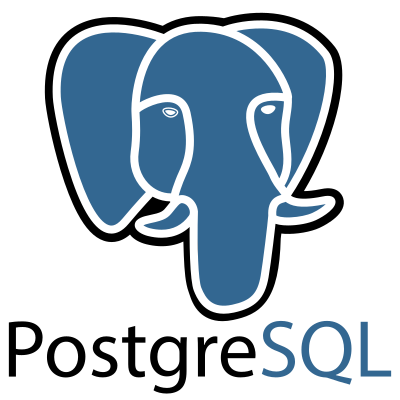
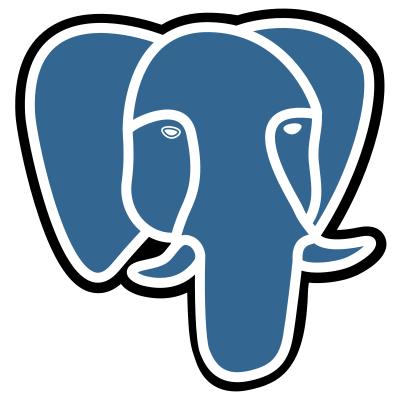
skills begin

diff --git a/index.html b/index.html
@@ -103,8 +103,78 @@
     <!-- ------------------------------------------   SKILLS SECTION   ------------------------------------------ -->
     <section id="skills" class="section">
         <div class="container">
-            <div class="box">
-                
+            <ul class="skill-list">
+                <li class="box languages">
+                    <h1 data-lang="skills:languages">Linguaggi</h1>
+                    <div class="icons">
+                        <div class="skill-item">
+                            <img class="skill-icon" src="./assets/img/skills/cplusplus.png" alt="">
+                            <h2 class="noselect">C++</h2>
+                        </div>
+                        <div class="skill-item">
+                            <img class="skill-icon" src="./assets/img/skills/csharp.png" alt="">
+                            <h2 class="noselect">C#</h2>
+                        </div>
+                        <div class="skill-item">
+                            <img class="skill-icon" src="./assets/img/skills/python.png" alt="">
+                            <h2 class="noselect">Python</h2>
+                        </div>
+                        <div class="skill-item">
+                            <img class="skill-icon" src="./assets/img/skills/java.png" alt="">
+                            <h2 class="noselect">Java</h2>
+                        </div>
+                    </div>
+                </li>
+                <li class="box tools">
+                    <h1 data-lang="skills:tools">Strumenti</h1>
+                    <div class="icons">
+                        <div class="skill-item">
+                            <img class="skill-icon" src="./assets/img/skills/matlab.png" alt="">
+                            <h2 class="noselect">Matlab</h2>
+                        </div>
+                        <div class="skill-item">
+                            <img class="skill-icon" src="./assets/img/skills/labview.png" alt="">
+                            <h2 class="noselect">LabVIEW</h2>
+                        </div>
+                        <div class="skill-item">
+                            <img class="skill-icon" src="./assets/img/skills/docker.png" alt="">
+                            <h2 class="noselect">Docker</h2>
+                        </div>
+                    </div>
+                </li>
+                <li class="box backend">
+                    <h1 data-lang="skills:backend">Back-end</h1>
+                    <div class="icons">
+                        <div class="skill-item">
+                            <img class="skill-icon" src="./assets/img/skills/dotnet.png" alt="">
+                            <h2 class="noselect">.NET Core</h2>
+                        </div>
+                        <div class="skill-item">
+                            <img class="skill-icon" src="./assets/img/skills/postgresql.png" alt="">
+                            <h2 class="noselect">PostgreSQL</h2>
+                        </div>
+                    </div>
+                </li>
+                <li class="box webdev">
+                    <h1 data-lang="skills:webdev">Sviluppo web</h1>
+                    <div class="icons">
+                        <div class="skill-item">
+                            <img class="skill-icon" src="./assets/img/skills/html5.png" alt="">
+                            <h2 class="noselect">HTML5</h2>
+                        </div>
+                        <div class="skill-item">
+                            <img class="skill-icon" src="./assets/img/skills/css3.png" alt="">
+                            <h2 class="noselect">CSS3</h2>
+                        </div>
+                        <div class="skill-item">
+                            <img class="skill-icon" src="./assets/img/skills/javascript.png" alt="">
+                            <h2 class="noselect">JavaScript</h2>
+                        </div>
+                    </div>
+                </li>
+            </ul>
+            <div class="box skill-preview">
+                <h1>Clicca su un elemento per mostrarne i dettagli</h1>
             </div>
         </div>
         <h1 class="section-title noselect" data-lang="section_titles:skills">Skills</h1>

diff --git a/css/desktop.css b/css/desktop.css
@@ -31,7 +31,7 @@
     --neon_animation_duration: 300ms;
     --fadein_animation_duration: 1000ms;
 
-    --section_title_top: 50px;
+    --section_title_top: 45px;
 
     --can_hover: 0;
 }
@@ -89,7 +89,7 @@ a {
     flex-direction: row;
     align-items: center;
     justify-content: center;
-    margin: calc(var(--section_title_top) + 11rem) 10vw 0px 10vw;
+    margin: calc(var(--section_title_top) + 11rem) 8vw 0px 8vw;
     z-index: 1;
 }
 
@@ -132,6 +132,10 @@ a {
     /* Font smoothing. That was taken from TWBS */
     -webkit-font-smoothing: antialiased;
     -moz-osx-font-smoothing: grayscale;
+}
+
+.box {
+    position: relative;
 }
 
 .box::before {
@@ -411,6 +415,75 @@ a {
     min-height: 100vh;
 }
 
+#skills .container {
+    flex-direction: row;
+    width: 100%;
+    justify-content: space-between;
+    align-items: flex-start;
+}
+
+#skills .container .box {
+    align-items: stretch;
+}
+
+#skills .container .box h1 {
+    font-size: 3rem;
+    font-weight: 400;
+    margin: 4px 0px 0px 10px;
+}
+
+#skills .container .skill-list {
+    list-style: none;
+}
+
+#skills .container .skill-list li {
+    margin: 10px 0px 10px 0px;
+    padding: 10px;
+}
+
+#skills .container ul li:nth-child(1) {
+    margin-top: 0px;
+}
+
+#skills .container ul li:nth-last-child(1) {
+    margin-bottom: 0px;
+}
+
+#skills .skill-item {
+    margin: 8px;
+    background-color: rgba(255, 255, 255, 0.75);
+    box-shadow: 2px 2px 5px var(--background_color_dark);
+    border-radius: 2%;
+    cursor: pointer;
+}
+
+#skills .skill-item h2 {
+    color: black;
+    font-weight: 600;
+    text-align: center;
+    margin: 6px;
+    font-size: 1.7rem;
+}
+
+#skills .skill-item .skill-icon {
+    width: 80px;
+    height: 80px;
+    margin: 20px;
+}
+
+#skills .container .skill-preview {
+    width: 50%;
+}
+
+#skills .container .skill-preview {
+    padding: 10px;
+}
+
+#skills .icons {
+    display: grid;
+    grid-template-columns: 1fr 1fr 1fr 1fr;
+}
+
 /* ----------------------------------------  EDUCATION   ---------------------------------------- */
 
 #education .container {
@@ -554,11 +627,11 @@ a {
         color: var(--secondary_color) !important;
     }
 
-    #education .container .box::before {
-        transition: background-color .2s;
+    #skills .skill-item {
+        transition: background-color .1s linear;
     }
 
-    #education .container .box:hover::before {
-        background-color: var(--secondary_color);
+    #skills .skill-item:hover {
+        background-color: white;
     }
 }

diff --git a/css/tablet.css b/css/tablet.css
@@ -157,6 +157,14 @@ body.stop_scroll {
 /* ----------------------------------------     HERO     ---------------------------------------- */
 
 
+
+
+/* ----------------------------------------  EDUCATION   ---------------------------------------- */
+
+
+}
+
+@media only screen and (max-width: 1024px) {
 /* ----------------------------------------    ABOUT     ---------------------------------------- */
 
 #about .container .profile {
@@ -207,8 +215,4 @@ body.stop_scroll {
     margin: 10px;
     margin-left: 5px;
 }
-
-/* ----------------------------------------  EDUCATION   ---------------------------------------- */
-
-
 }
